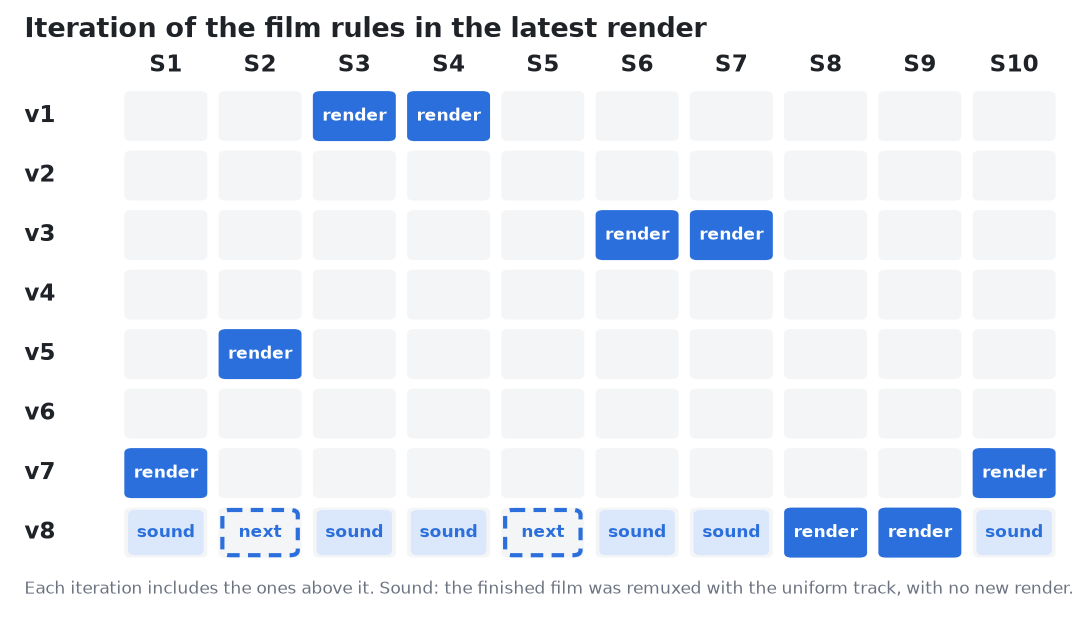
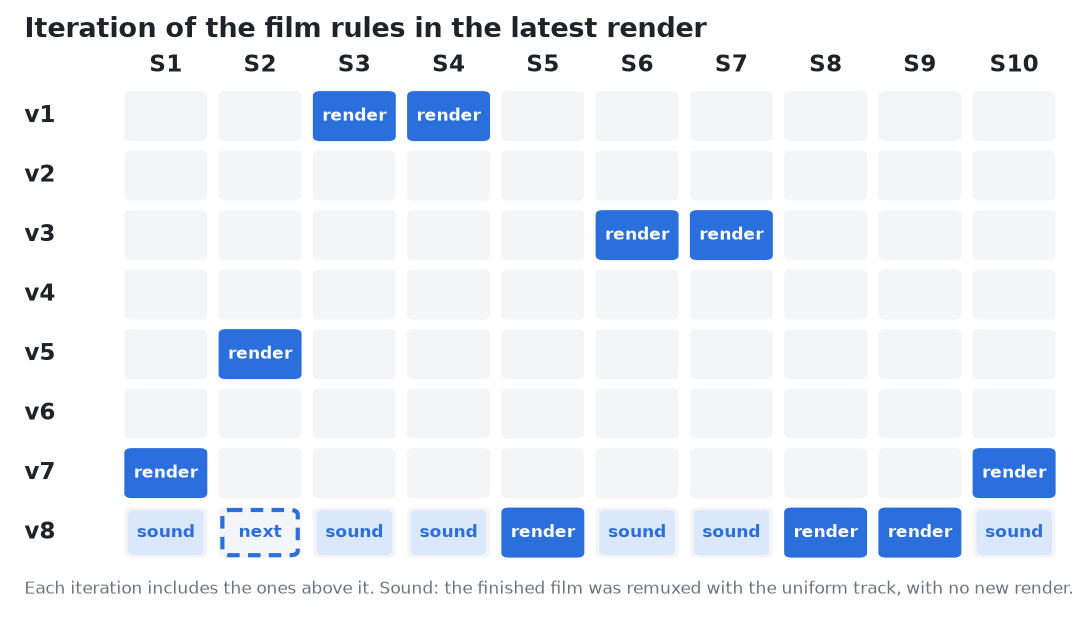
Show the film of session 5 on the page
The film of session 5 is rendered on the new toolkit of 2026-10-24 with the uniform sound track and
joins the files of the release "films" as session5.mp4; the chart marks it as rendered at v8.

Claude-Session: https://claude.ai/code/session_01SC7dtWY3nJBJX617abbvfb

Changed region(s): [[0.4375, 0.7981, 0.5625, 0.9208]]

diff --git a/docs/index.html b/docs/index.html
@@ -41,6 +41,10 @@
     <h2><a href="#session4">Session 4</a> Electrons in magnetic fields, the quantum Hall effect and Landau levels</h2>
     <video controls playsinline preload="metadata" src="https://github.com/joselado/Advanced_Quantum_Materials_2027/releases/download/films/session4.mp4#t=0.1"></video>
   </section>
+  <section class="film" id="session5">
+    <h2><a href="#session5">Session 5</a> Superconductivity, Nambu representation and Majorana physics</h2>
+    <video controls playsinline preload="metadata" src="https://github.com/joselado/Advanced_Quantum_Materials_2027/releases/download/films/session5.mp4#t=0.1"></video>
+  </section>
   <section class="film" id="session6">
     <h2><a href="#session6">Session 6</a> Classical magnetism and magnons</h2>
     <video controls playsinline preload="metadata" src="https://github.com/joselado/Advanced_Quantum_Materials_2027/releases/download/films/session6.mp4#t=0.1"></video>

diff --git a/docs/film_rules.py b/docs/film_rules.py
@@ -10,8 +10,8 @@ V = [("v1  10-15", "First films: mind palace, voice as narrator,\ncaptions in a 
      ("v6  10-22 am", "Frames per world, majestic themed gates,\nphotoreal worlds, layout screen checks"),
      ("v7  10-22 noon", "Essence dialogue, distant mist, photoreal\nhorizon, 2D winding world with hills"),
      ("v8  10-23", "Uniform sound matched to session 6,\nrecording pipeline with per-film options")]
-done = {3: 0, 4: 0, 6: 2, 7: 2, 2: 4, 1: 6, 10: 6, 8: 7, 9: 7}   # session -> version index of its latest full render
-prep = {2: 7, 5: 7}                                        # being made now, target version
+done = {3: 0, 4: 0, 6: 2, 7: 2, 2: 4, 1: 6, 10: 6, 8: 7, 9: 7, 5: 7}   # session -> version index of its latest full render
+prep = {2: 7}                                        # being made now, target version
 sound = {1, 2, 3, 4, 6, 7, 10}                             # finished films remuxed with the uniform sound of v8
 SOUND = 7
 ink, muted, grid, fill, surf = '#1f2328', '#6b7280', '#d8dce2', '#2a6fdb', '#ffffff'
